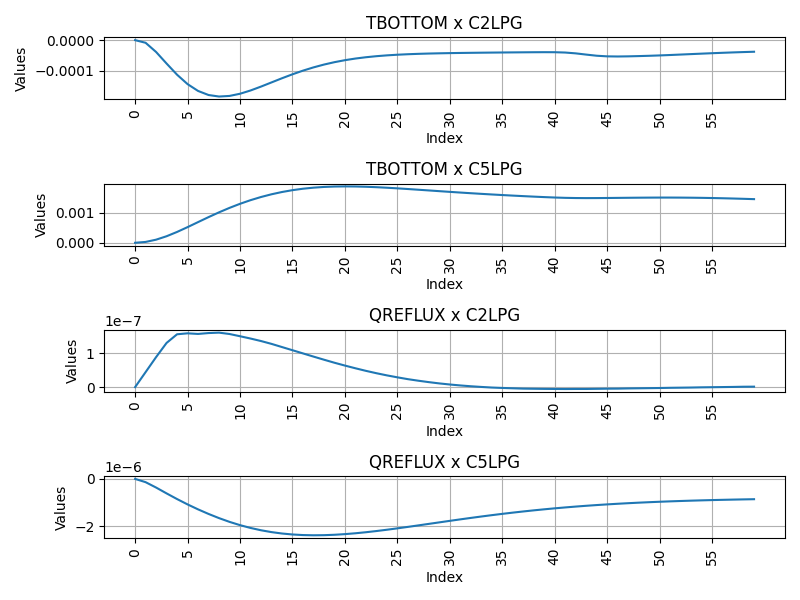
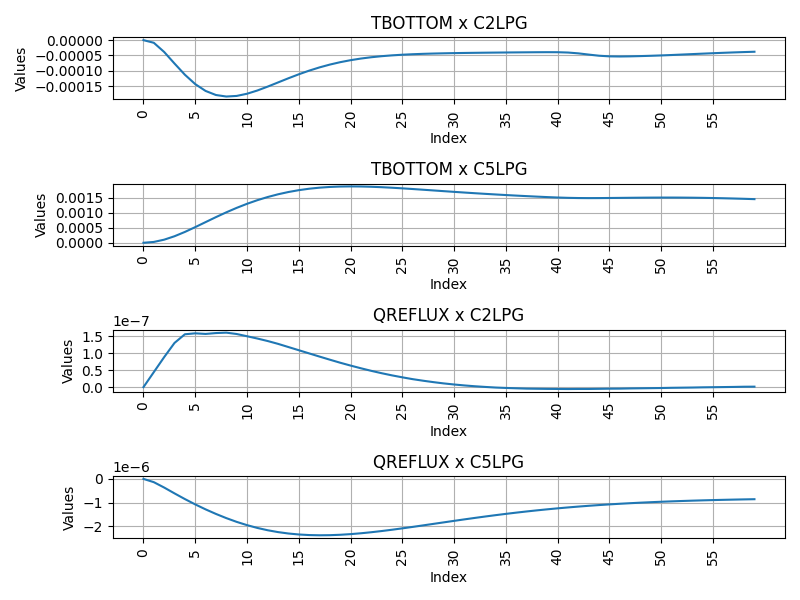
resume

diff --git a/LPGdebutanizerUnitStepCalc.py b/LPGdebutanizerUnitStepCalc.py
@@ -2,87 +2,37 @@ import pandas as pd
 import matplotlib.pyplot as plt
 from src.StepCalc import *
 
+NUMBER_OF_INPUTS = 2
+RESPONSE_SIZE = 60
+
 # Step 1: Read the CSV file
 df = pd.read_csv('LPGdesbutanizerStepTest.csv', delimiter=";", index_col=0)
 df.columns = ['TBOTTOM', 'QREFLUX', 'C2LPG', 'C5LPG']
 print('test data:')
 print(df)
 
-# Number of columns to plot
-num_columns = len(df.columns)
+# Split the data into input and output DataFrames
+df_u = df.iloc[:, :NUMBER_OF_INPUTS]
+df_y = df.iloc[:, NUMBER_OF_INPUTS:]
 
-# Creating subplots
-fig, axs = plt.subplots(num_columns, 1, figsize=(10, 10))  # Adjust figsize as needed
+plot_and_save(dataframe=df,
+              figsize=(10, 10),
+              xticks_increment=25,
+              y_num_bins=5,
+              fig_name='LPGdebutanizerStepTest')
 
-# Plotting each column on a separate subplot
-for i, column in enumerate(df.columns):
-    axs[i].plot(df.index, df[column])
-    axs[i].set_title(column)
-    axs[i].set_xlabel('Index')
-    axs[i].set_ylabel('Values')
-    axs[i].set_xticks(range(0, len(df.index), 25))
-    axs[i].tick_params(axis='x', rotation=90)  # Rotate x-axis labels by 90 degrees
-    axs[i].grid(True)  # Add gridlines
-    axs[i].locator_params(axis='y', nbins=5)
-
-plt.tight_layout()  # Adjust layout to not overlap subplots
-FIG_NAME = 'LPGdebutanizerStepTest'
-plt.savefig(f'figures/{FIG_NAME}.png')
-
-NUM_U = 2
-df_u = df.iloc[:, :NUM_U]
-df_y = df.iloc[:, NUM_U:]
-
-# GET FIRST STEP RESPONSES
-# Constant for response size
-RESPONSE_SIZE = 60
-
-# Call the function to calculate responses
+# Get first step responses
 df_responses1 = get_unit_step_responses(df_u, df_y, 1, RESPONSE_SIZE)
+plot_and_save(dataframe=df_responses1,
+              figsize=(8, 6),
+              xticks_increment=5,
+              y_num_bins=5,
+              fig_name='LPGdebutanizerUnitStep1')
 
-# Number of columns to plot
-num_columns = len(df_responses1.columns)
-
-# Creating subplots
-fig, axs = plt.subplots(num_columns, 1, figsize=(8, 6))  # Adjust figsize as needed
-
-# Plotting each column on a separate subplot
-for i, column in enumerate(df_responses1.columns):
-    axs[i].plot(df_responses1.index, df_responses1[column])
-    axs[i].set_title(column)
-    axs[i].set_xlabel('Index')
-    axs[i].set_ylabel('Values')
-    axs[i].set_xticks(range(0, len(df_responses1.index), 5))
-    axs[i].tick_params(axis='x', rotation=90)  # Rotate x-axis labels by 90 degrees
-    axs[i].grid(True)  # Add gridlines
-
-plt.tight_layout()  # Adjust layout to not overlap subplots
-FIG_NAME = 'LPGdebutanizerUnitStep1'
-plt.savefig(f'figures/{FIG_NAME}.png')
-
-# GET SECOND STEP RESPONSES
-# Constant for response size
-RESPONSE_SIZE = 60
-
-# Call the function to calculate responses
+# Get second step responses
 df_responses2 = get_unit_step_responses(df_u, df_y, 2, RESPONSE_SIZE)
-
-# Number of columns to plot
-num_columns = len(df_responses2.columns)
-
-# Creating subplots
-fig, axs = plt.subplots(num_columns, 1, figsize=(8, 6))  # Adjust figsize as needed
-
-# Plotting each column on a separate subplot
-for i, column in enumerate(df_responses2.columns):
-    axs[i].plot(df_responses2.index, df_responses2[column])
-    axs[i].set_title(column)
-    axs[i].set_xlabel('Index')
-    axs[i].set_ylabel('Values')
-    axs[i].set_xticks(range(0, len(df_responses2.index), 5))
-    axs[i].tick_params(axis='x', rotation=90)  # Rotate x-axis labels by 90 degrees
-    axs[i].grid(True)  # Add gridlines
-
-plt.tight_layout()  # Adjust layout to not overlap subplots
-FIG_NAME = 'LPGdebutanizerUnitStep2'
-plt.savefig(f'figures/{FIG_NAME}.png')
+plot_and_save(dataframe=df_responses2,
+              figsize=(8, 6),
+              xticks_increment=5,
+              y_num_bins=5,
+              fig_name='LPGdebutanizerUnitStep2')

diff --git a/src/StepCalc.py b/src/StepCalc.py
@@ -1,4 +1,5 @@
 import pandas as pd
+import matplotlib.pyplot as plt
 
 def get_unit_step_responses(df_u, df_y, step_count, response_size):
     df_responses = pd.DataFrame()
@@ -43,3 +44,24 @@ def get_unit_step_responses(df_u, df_y, step_count, response_size):
             df_responses = pd.concat([df_responses, step_responses], axis=1)
 
     return df_responses
+
+def plot_and_save(dataframe, figsize, xticks_increment, y_num_bins, fig_name):
+    # Number of columns to plot
+    num_columns = len(dataframe.columns)
+
+    # Creating subplots
+    fig, axs = plt.subplots(num_columns, 1, figsize=figsize)
+
+    # Plotting each column on a separate subplot
+    for i, column in enumerate(dataframe.columns):
+        axs[i].plot(dataframe.index, dataframe[column])
+        axs[i].set_title(column)
+        axs[i].set_xlabel('Index')
+        axs[i].set_ylabel('Values')
+        axs[i].set_xticks(range(0, len(dataframe.index), xticks_increment))
+        axs[i].tick_params(axis='x', rotation=90)  # Rotate x-axis labels by 90 degrees
+        axs[i].grid(True)  # Add gridlines
+        axs[i].locator_params(axis='y', nbins=y_num_bins)
+
+    plt.tight_layout()  # Adjust layout to not overlap subplots
+    plt.savefig(f'figures/{fig_name}.png')
